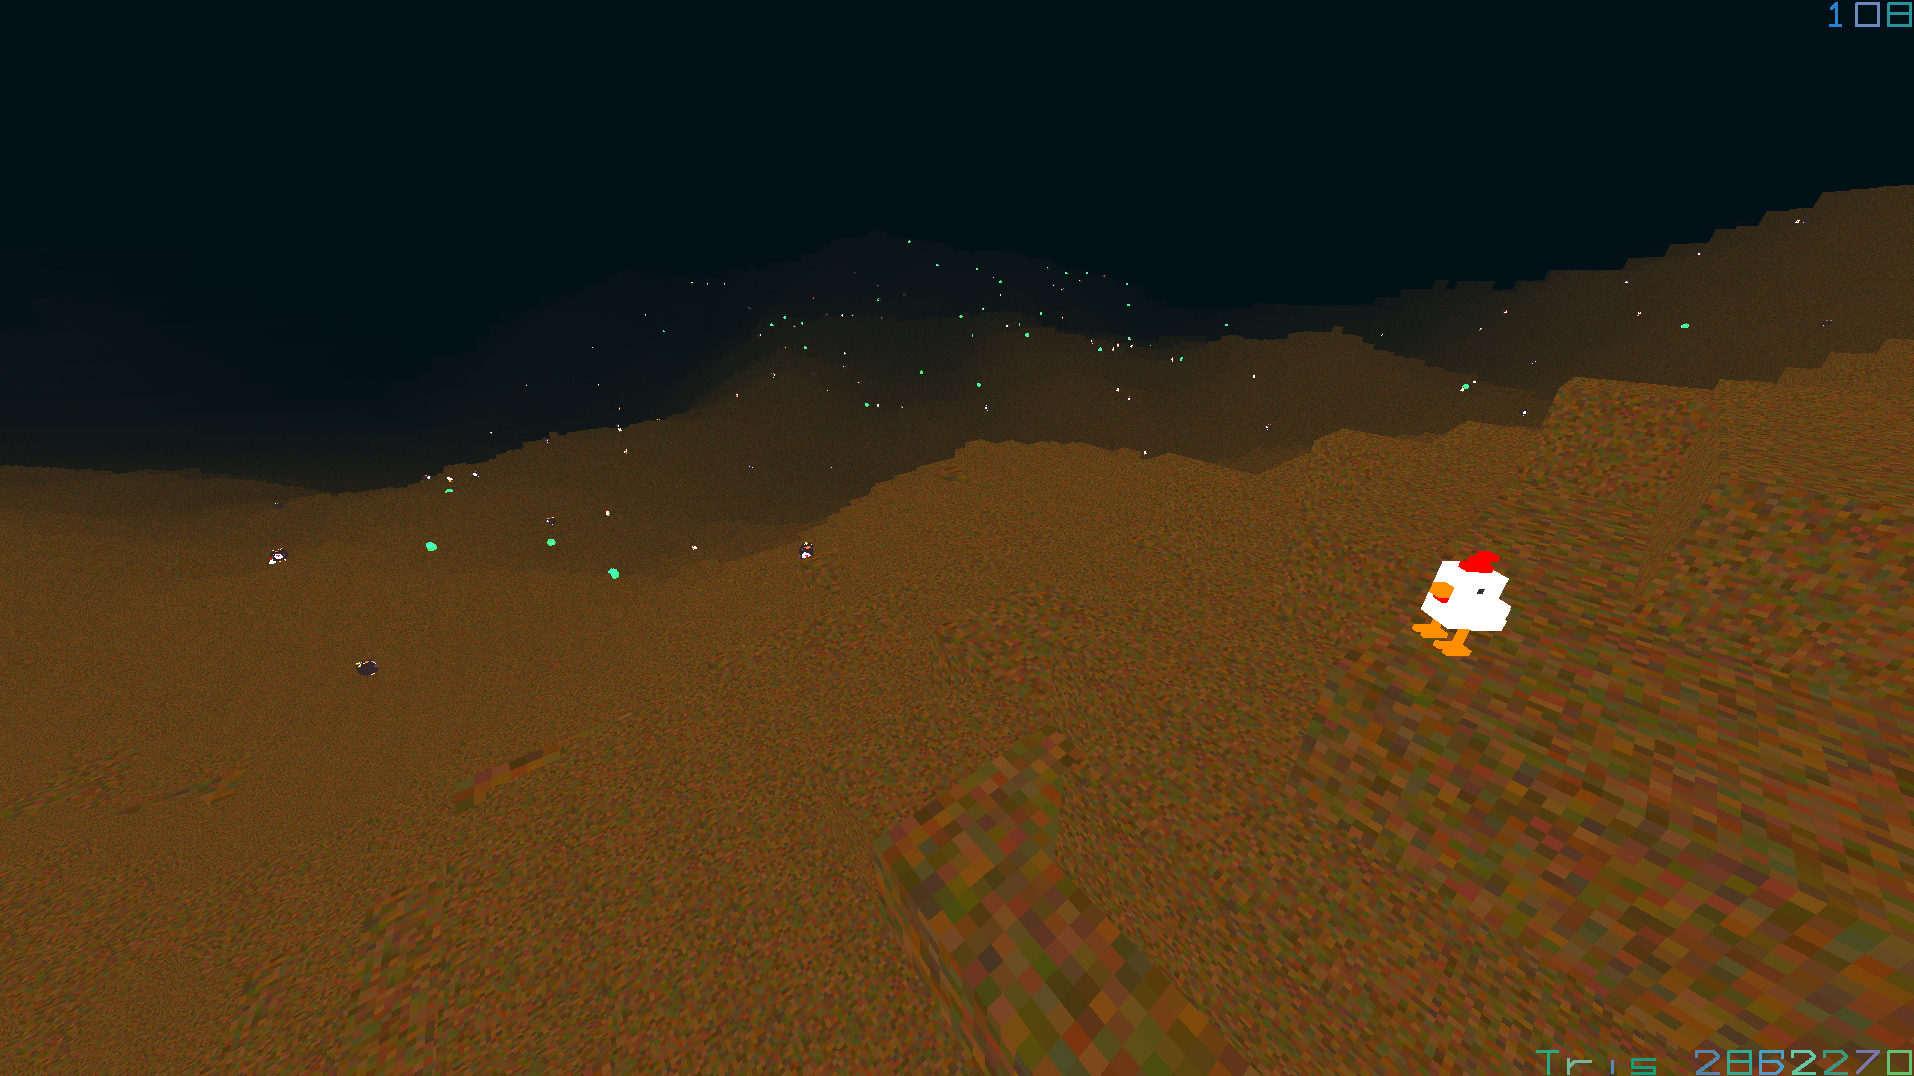
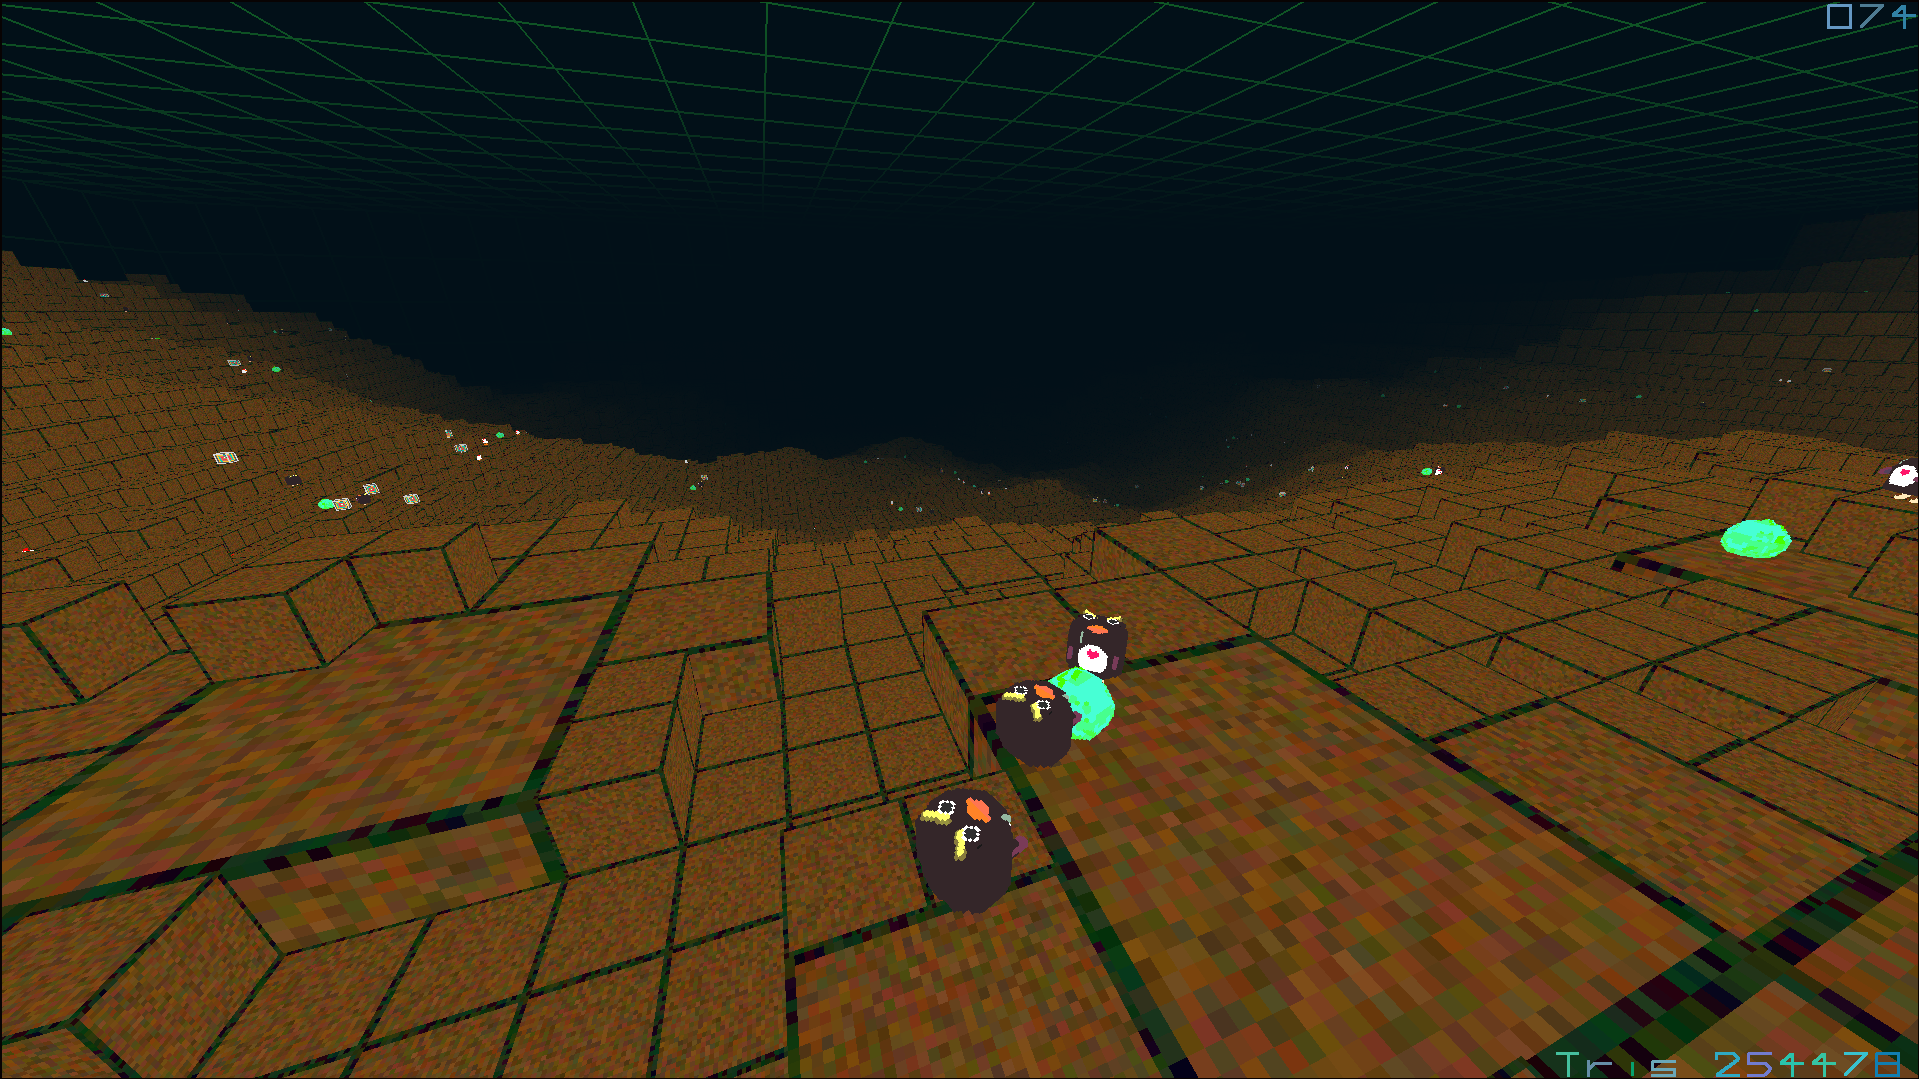
Updated latest screenshot

diff --git a/src/inner_core/textures/core/textures_core.c b/src/inner_core/textures/core/textures_core.c
@@ -3,7 +3,7 @@
 
 #define texture_update_pipeline 0      // 0 | EcsOnStore | EcsPostUpdate | EcsOnValidate
 long int texture_update_system_id;
-#define is_texture_outlines 1 // 0 no outline, 1 full outline, 2 half outline, 3 5/6 outline
+#define is_texture_outlines 3 // 0 no outline, 1 full outline, 2 half outline, 3 5/6 outline
 const double noise_animation_speed = 0.5;
 zoxel_declare_tag(NoiseTexture)
 zoxel_declare_tag(FrameTexture)
